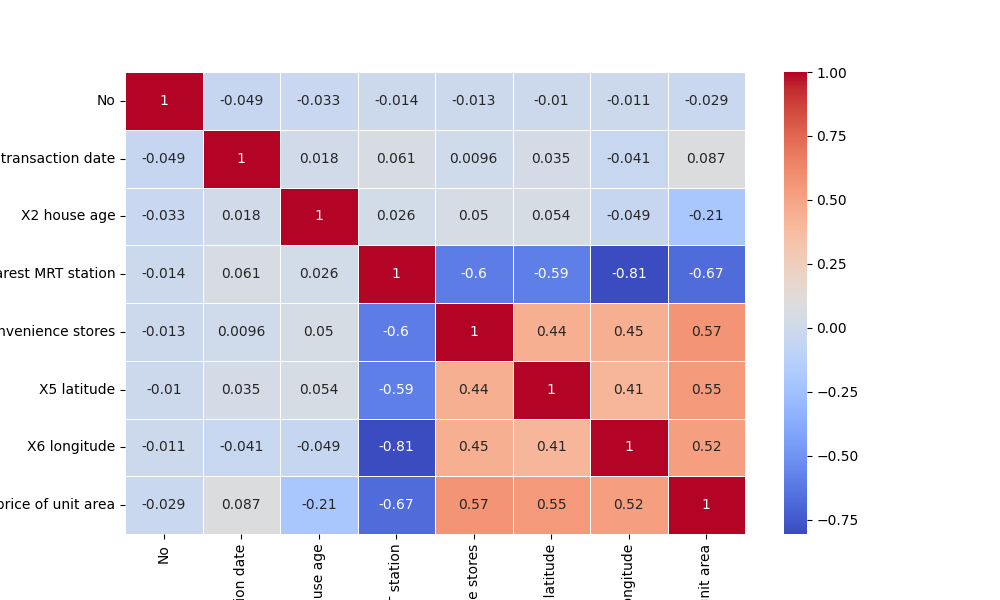
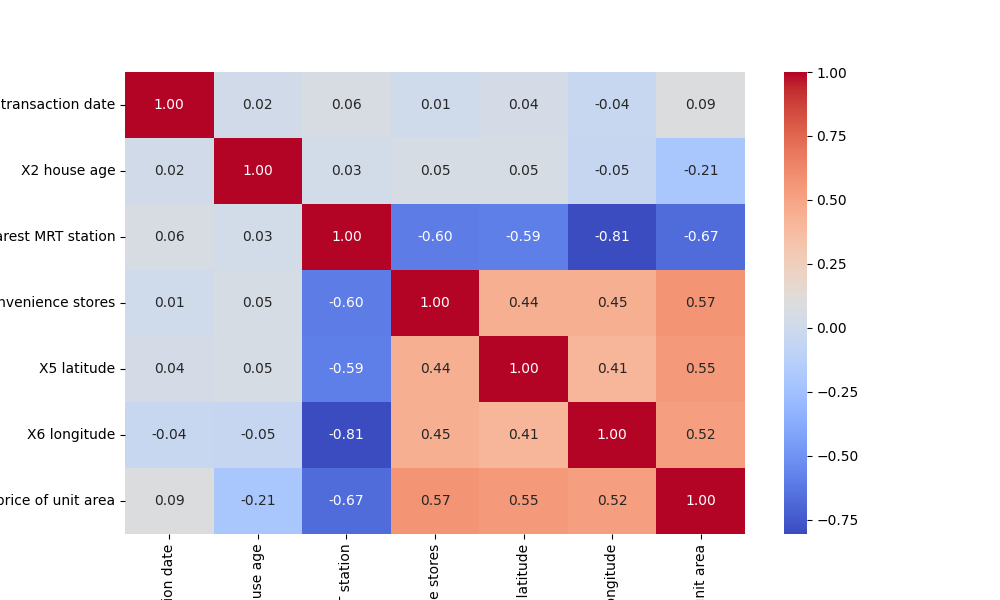
Update

diff --git a/scripts/generate_visualizations.py b/scripts/generate_visualizations.py
@@ -12,7 +12,7 @@ os.makedirs('../visuals', exist_ok=True)
 # Visualizations
 # Correlation heatmap
 plt.figure(figsize=(10, 6))
-sns.heatmap(data.corr(), annot=True, cmap='coolwarm', linewidths=0.5)
+sns.heatmap(data.iloc[:, 1:].corr(), annot=True, cmap='coolwarm', fmt=".2f")
 plt.savefig('../visuals/correlation_heatmap.png')
 
 # Scatter plots for each feature against house price
